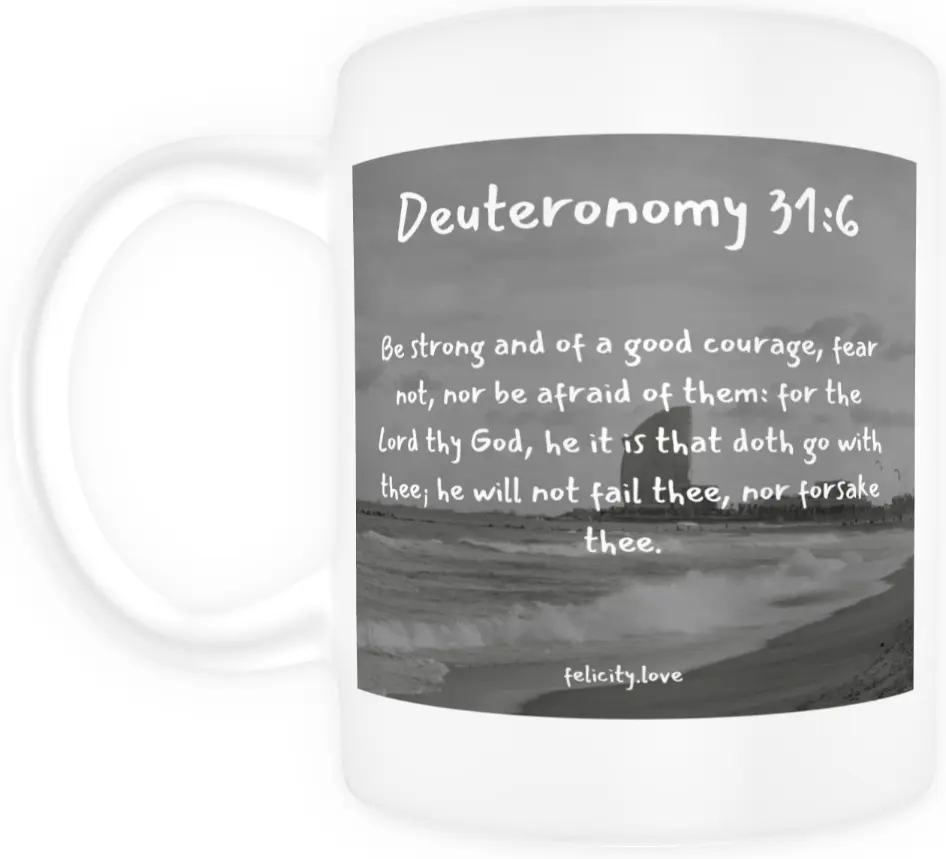
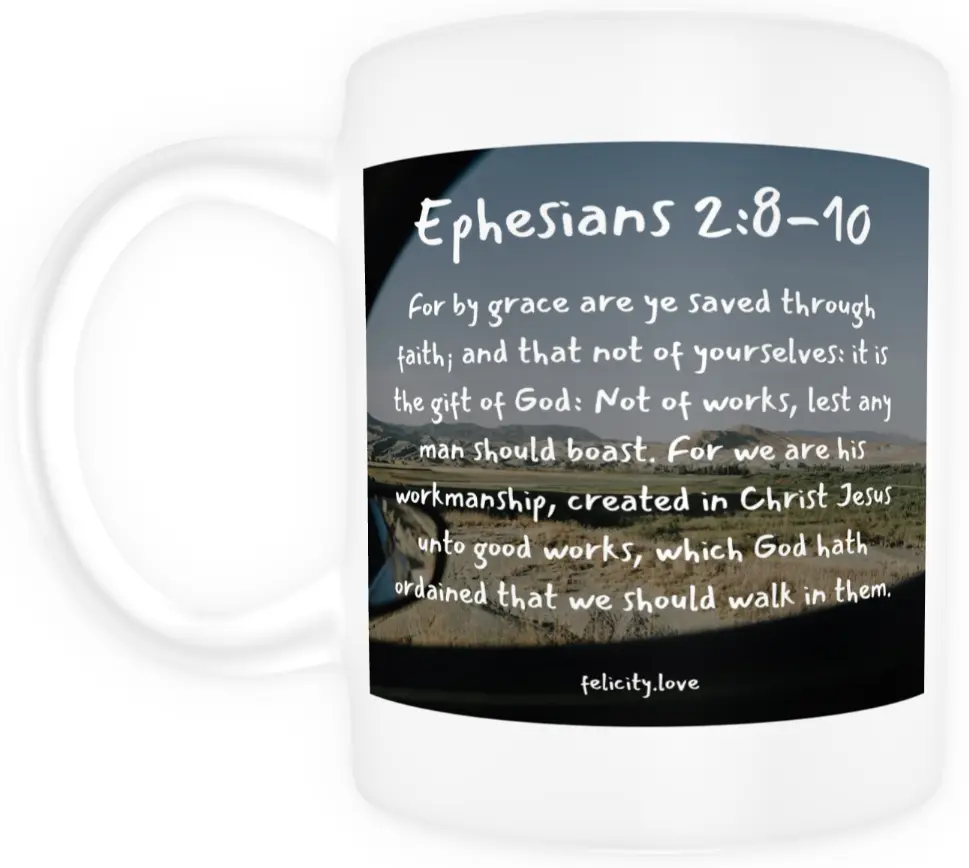
June 8th 2024 daily evening devotional

diff --git a/_posts/2024-06-08-evening.md b/_posts/2024-06-08-evening.md
@@ -1,0 +1,17 @@
+---
+layout: post
+author: Joey
+date: 2024-06-08 16:47:00 -0500
+featured_image: "/img/060824_daily_devotional_night.webp"
+title: June 8th 2024 - Evening Devotional
+---
+
+[![June 8th 2024 - Evening Devotional](/img/060824_daily_devotional_night.webp)](/img/060824_daily_devotional_night.webp)
+
+Ephesians 2:8-10
+For by grace are ye saved through faith; and that not of yourselves: it is the gift of God: Not of works, lest any man should boast. For we are his workmanship, created in Christ Jesus unto good works, which God hath ordained that we should walk in them.
+
+<hr>
+
+Want to support the page? Buy something from the joeybrinkman.com shop by clicking the image below. Thank you!
+[![June 8th 2024 - Evening Devotional - Coffee Mug](/img/mugs/060824_night_mug.webp)](https://www.joeybrinkman.com/product/12-oz-mug-ephesians-28-10//)

diff --git a/_posts/2024-06-08-morning.md b/_posts/2024-06-08-morning.md
@@ -16,4 +16,4 @@ Be strong and of a good courage, fear not, nor be afraid of them: for the Lord t
 
 Please consider purchasing a mug to support the page by clicking the image below, thank you!
 
-[![June 8th 2024 - Morning Devotional - Mug](/img/mugs/060824_night_mug.webp)](https://www.joeybrinkman.com/product/12-oz-mug-deuteronomy-316/)
+[![June 8th 2024 - Morning Devotional - Mug](/img/mugs/060824_morning_mug.webp)](https://www.joeybrinkman.com/product/12-oz-mug-deuteronomy-316/)
